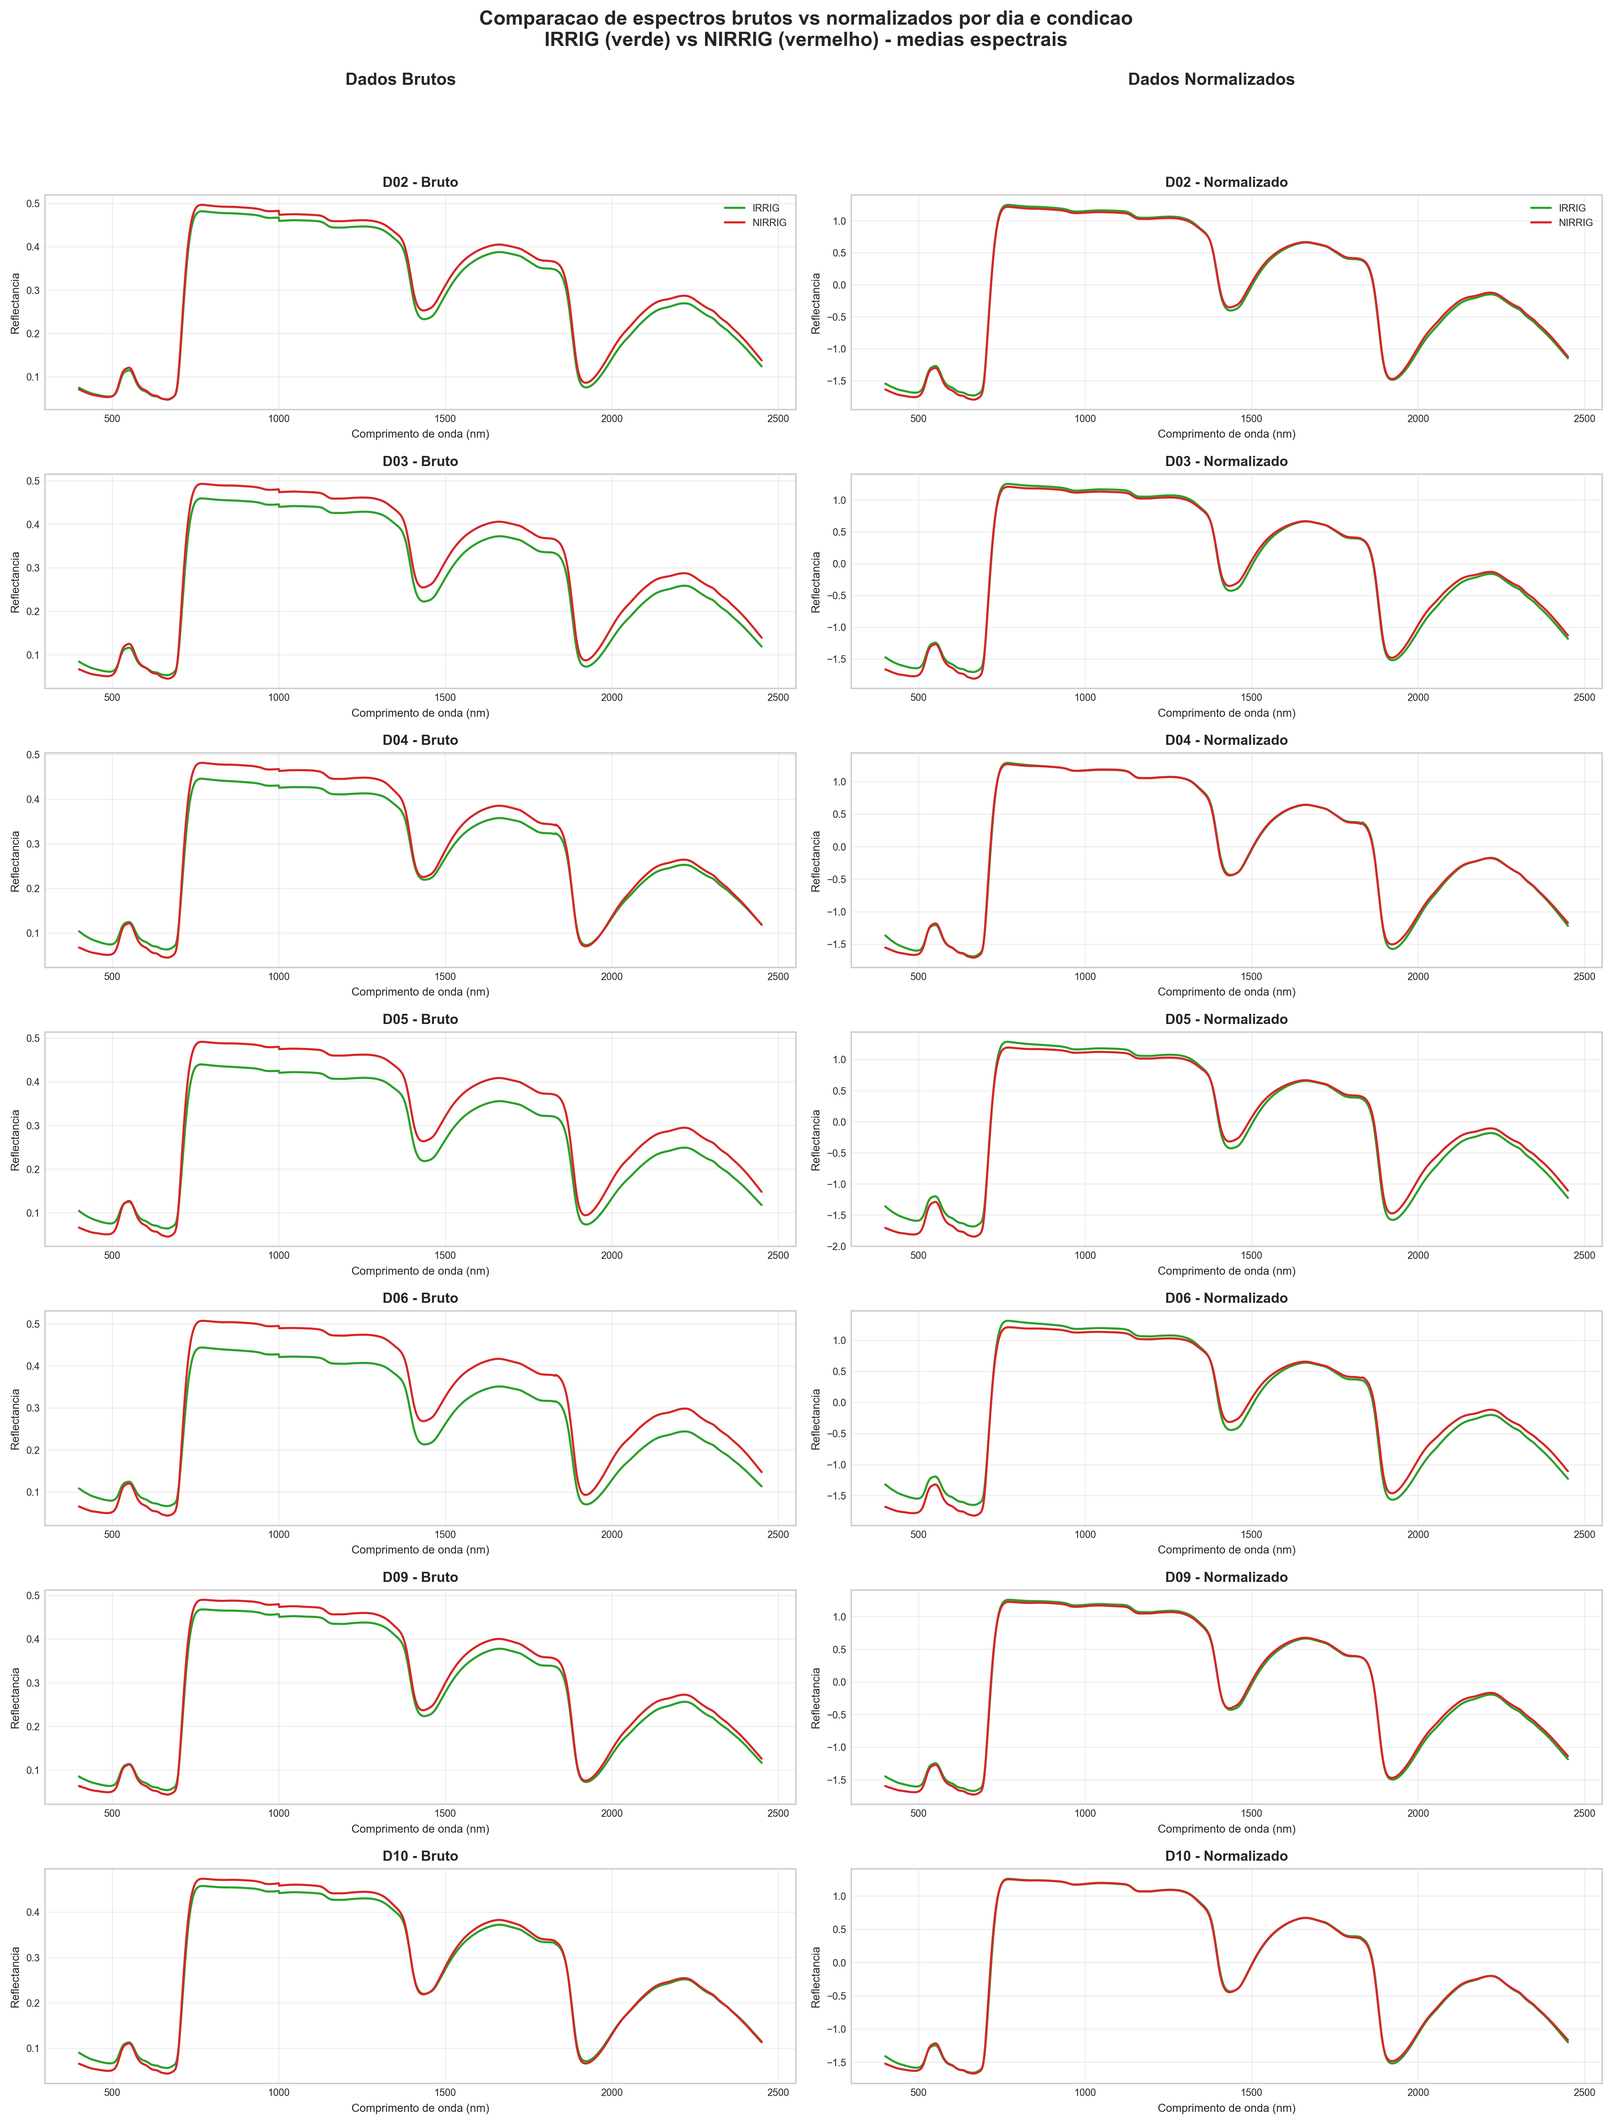
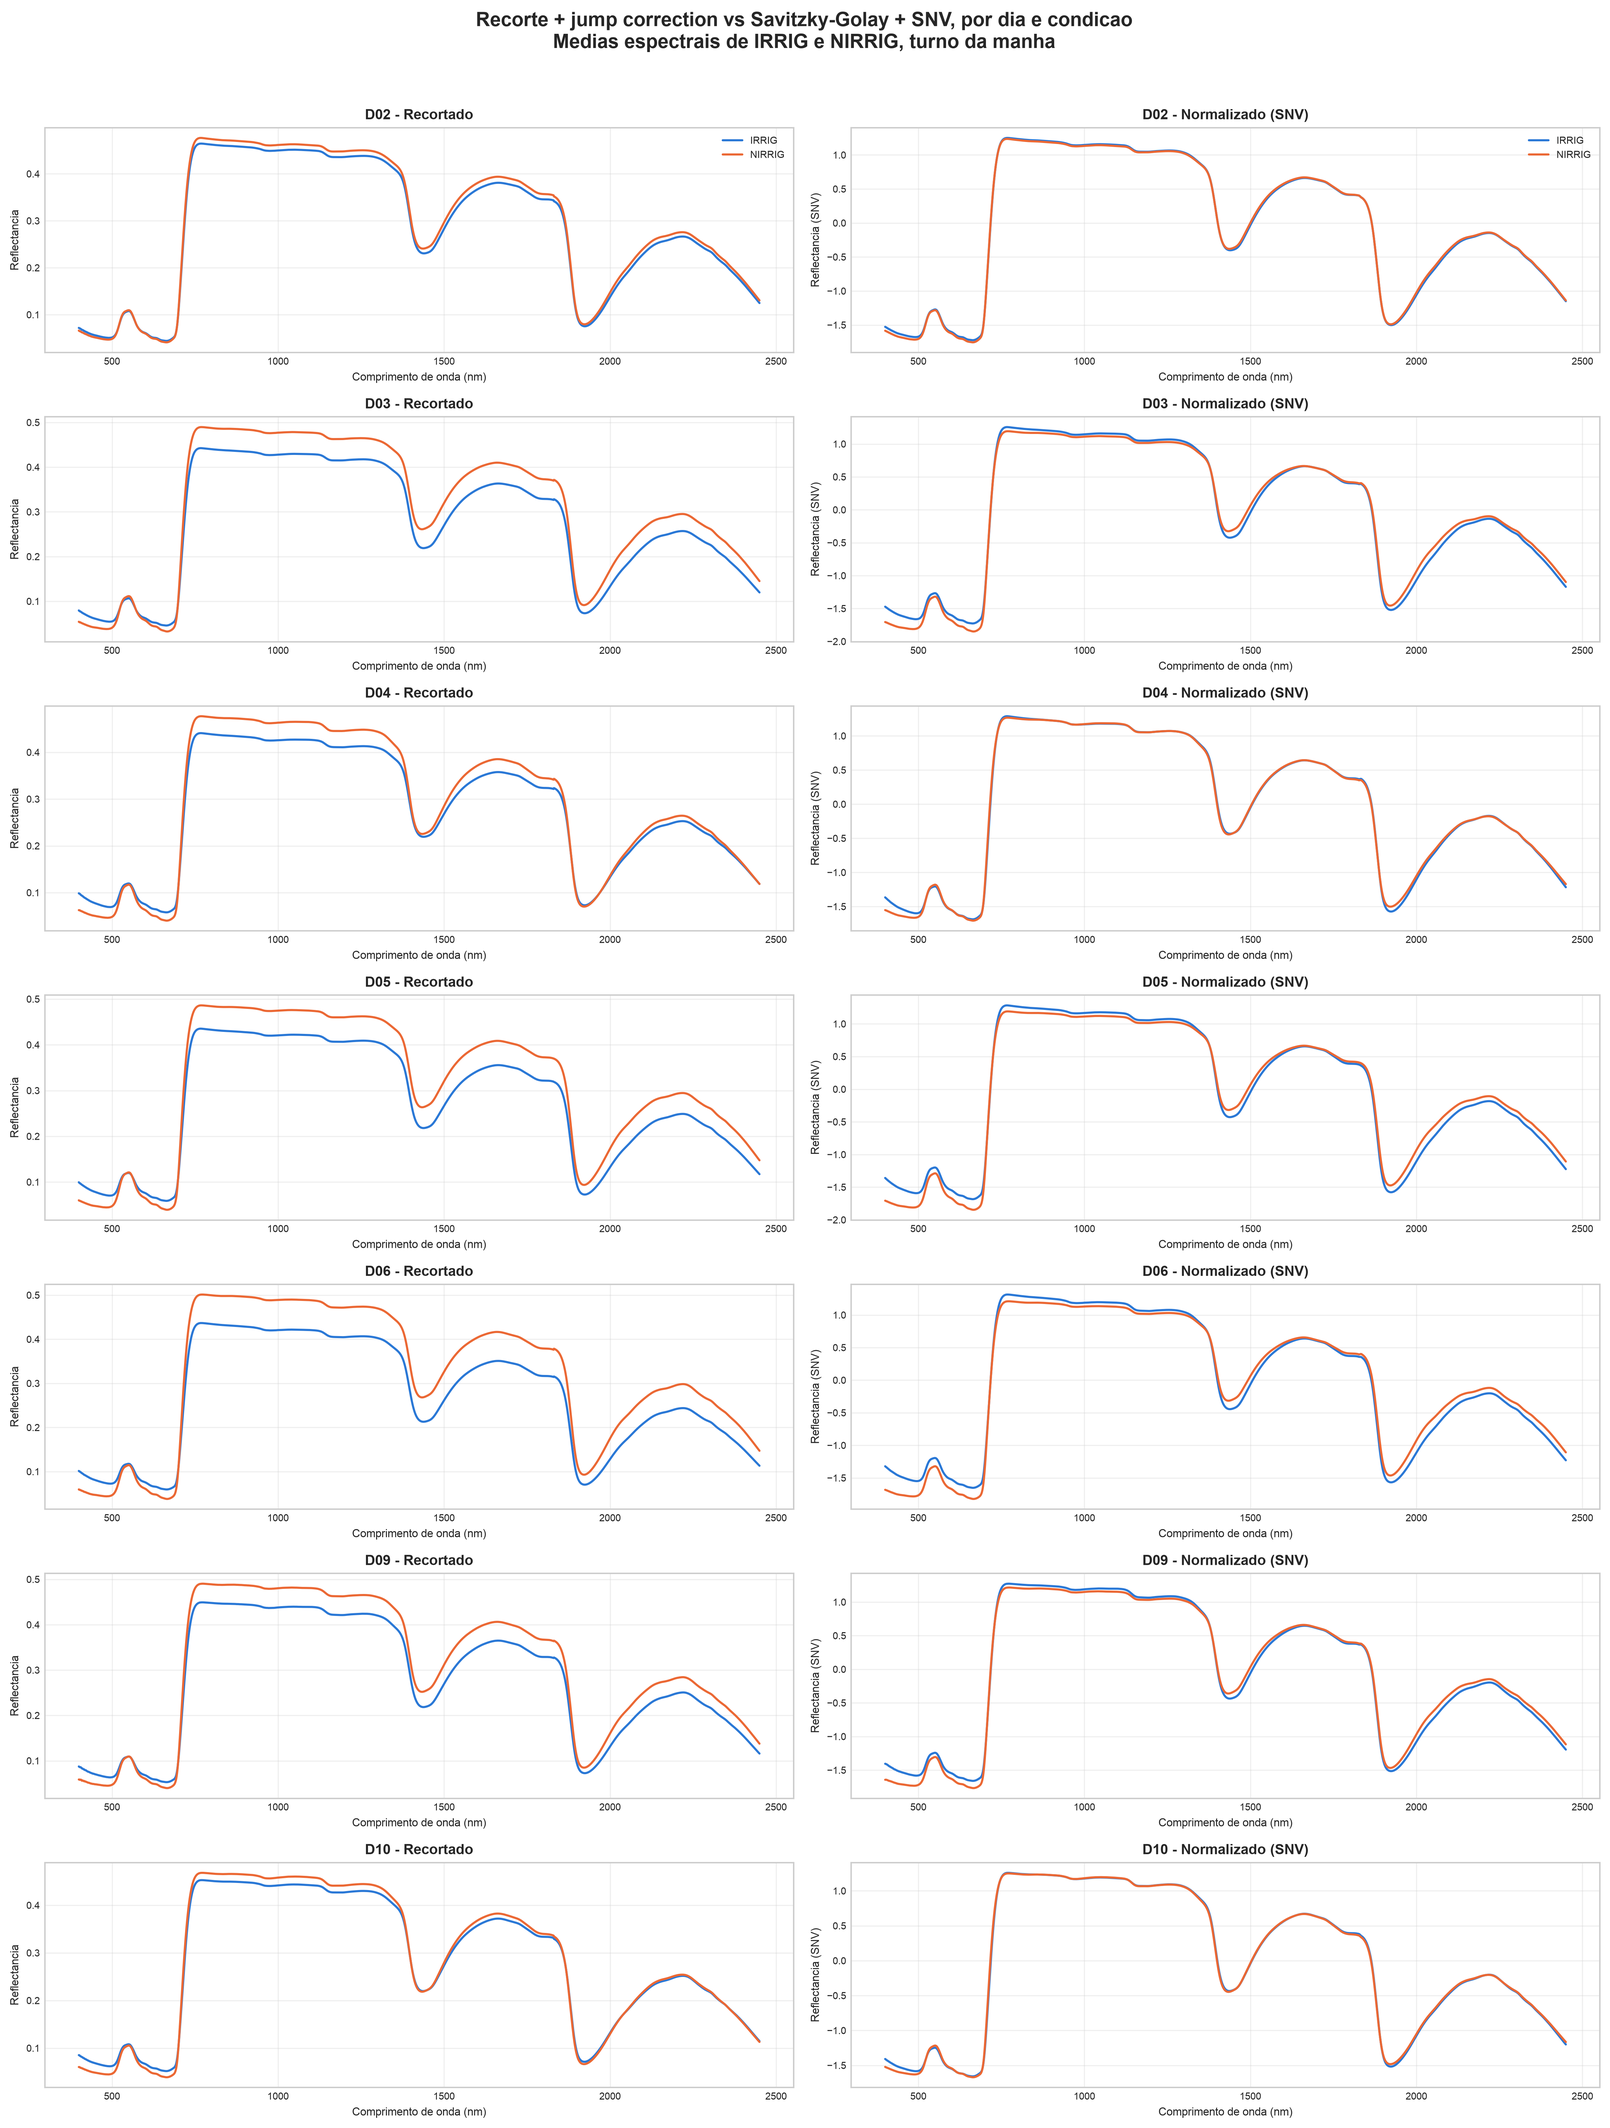
figuras: gera o comparativo de pre-processamento do pipeline em memoria
plot_preprocessamento.py lia `Unificada13052026_normalizado.csv`, um CSV
intermediario que nao esta versionado -- a figura so podia ser gerada de um
arquivo local. Agora usa `carregar_estagios`, o mesmo pipeline dos modulos de
analise, e compara recortado vs Savitzky-Golay + SNV.

Troca o par verde/vermelho por azul/laranja, validado contra deuteranopia,
protanopia e tritanopia.

Nos paineis de normalidade, o n tipico de cada agrupamento passa a ser lido de
normalidade_resumo.csv em vez de ficar fixado no codigo, e os titulos anotam o
recorte pelo turno da manha.

diff --git a/preprocessamento_espectral/plot_preprocessamento.py b/preprocessamento_espectral/plot_preprocessamento.py
@@ -1,10 +1,17 @@
 #!/usr/bin/env python3
-"""Painel comparativo de espectros brutos vs normalizados por dia e condicao.
+"""Painel comparativo de espectros recortados vs normalizados por dia e condicao.
 
 Gera uma unica figura PNG com grid 7x2:
 - 7 linhas: dias de coleta (D02 a D10)
-- 2 colunas: bruto (esquerda) vs normalizado (direita)
-- Cada subplot: medias espectrais de IRRIG (azul) e NIRRIG (vermelho)
+- 2 colunas: recortado (esquerda) vs normalizado (direita)
+- Cada subplot: medias espectrais de IRRIG e NIRRIG
+
+Os dois estagios saem de `carregar_estagios`, o mesmo pipeline em memoria que
+todos os modulos de analise usam. A versao anterior lia um CSV intermediario
+(`Unificada13052026_normalizado.csv`) que nao existe no repositorio, entao a
+figura so podia ser gerada a partir de um arquivo local nao versionado.
+
+Apenas o turno da manha entra, como no resto do projeto.
 
 Uso:
     python plot_preprocessamento.py
@@ -12,6 +19,7 @@ Uso:
 
 from __future__ import annotations
 
+import sys
 from pathlib import Path
 
 import numpy as np
@@ -23,72 +31,32 @@ except ImportError:
     raise SystemExit("matplotlib nao esta instalado. Instale com: pip install matplotlib")
 
 ROOT = Path(__file__).resolve().parent
+sys.path.insert(0, str(ROOT.parent / "testeDeNormalidade"))
 
-DATASET_DIR = ROOT.parent / "dataset"
-BRUTO_CSV = DATASET_DIR / "Unificada13052026_Limpa.csv"
-NORMALIZADO_CSV = DATASET_DIR / "Unificada13052026_normalizado.csv"
+from shapiro_normalidade import carregar_estagios  # noqa: E402
 
 SAIDA = ROOT / "preprocessamento_comparativo.png"
 
-LIMITE_INF = 400
-LIMITE_SUP = 2450
+TURNO = "manha"
 
-COR_IRRIG = "#2ca02c"
-COR_NIRRIG = "#d62728"
-
-
-def carregar_dados() -> tuple[pd.DataFrame, pd.DataFrame, np.ndarray]:
-    """Carrega datasets bruto e normalizado, aplica recorte espectral."""
-    print("Carregando dados brutos...")
-    df_bruto = pd.read_csv(BRUTO_CSV, sep=";", decimal=",")
-    df_bruto.columns = [c.strip() for c in df_bruto.columns]
-    
-    print("Carregando dados normalizados...")
-    df_norm = pd.read_csv(NORMALIZADO_CSV, sep=";", decimal=",")
-    df_norm.columns = [c.strip() for c in df_norm.columns]
-    
-    bandas_bruto = sorted(int(c) for c in df_bruto.columns if c.isdigit())
-    bandas_norm = sorted(int(c) for c in df_norm.columns if c.isdigit())
-    
-    mask_bruto = [(b >= LIMITE_INF and b <= LIMITE_SUP) for b in bandas_bruto]
-    mask_norm = [(b >= LIMITE_INF and b <= LIMITE_SUP) for b in bandas_norm]
-    
-    bandas_validas_bruto = [b for b, m in zip(bandas_bruto, mask_bruto) if m]
-    bandas_validas_norm = [b for b, m in zip(bandas_norm, mask_norm) if m]
-    
-    w_bruto = np.array(bandas_validas_bruto, dtype=float)
-    w_norm = np.array(bandas_validas_norm, dtype=float)
-    
-    print(f"  Bruto: {len(df_bruto)} amostras, {len(w_bruto)} bandas ({w_bruto.min():.0f}-{w_bruto.max():.0f} nm)")
-    print(f"  Normalizado: {len(df_norm)} amostras, {len(w_norm)} bandas ({w_norm.min():.0f}-{w_norm.max():.0f} nm)")
-    
-    return df_bruto, df_norm, w_bruto, w_norm
-
-
-def extrair_dia(data_coleta: str) -> str:
-    """Extrai o dia (D02, D03, etc) da string de data_coleta."""
-    import re
-    match = re.match(r"^(D\d+)", str(data_coleta))
-    return match.group(1) if match else str(data_coleta)
+# Par validado contra deuteranopia, protanopia e tritanopia (dE 33.6 em visao
+# normal, 26.5 no pior caso de CVD). Substitui o verde/vermelho anterior, que
+# e exatamente o par que daltonismo vermelho-verde nao distingue.
+COR_IRRIG = "#2a78d6"
+COR_NIRRIG = "#eb6834"
 
 
 def calcular_medias_por_dia_condicao(
-    df: pd.DataFrame,
-    band_cols: list[str],
+    meta: pd.DataFrame,
+    espectro: np.ndarray,
 ) -> dict[tuple[str, str], np.ndarray]:
     """Calcula media espectral para cada combinacao (dia, condicao)."""
-    df = df.copy()
-    df["dia"] = df["data_coleta"].apply(extrair_dia)
-    
-    bandas = df[band_cols].apply(pd.to_numeric, errors="coerce")
-    
     medias = {}
-    for dia in sorted(df["dia"].unique()):
+    for dia in sorted(meta["dia"].unique()):
         for condicao in ["IRRIG", "NIRRIG"]:
-            mask = (df["dia"] == dia) & (df["condicao"] == condicao)
+            mask = ((meta["dia"] == dia) & (meta["condicao"] == condicao)).to_numpy()
             if mask.any():
-                medias[(dia, condicao)] = bandas.loc[mask].mean().to_numpy()
-    
+                medias[(dia, condicao)] = espectro[mask].mean(axis=0)
     return medias
 
 
@@ -99,16 +67,17 @@ def plot_subplot(
     dia: str,
     titulo: str,
     mostrar_legenda: bool = True,
+    unidade: str = "Reflectancia",
 ) -> None:
     """Plota um subplot com IRRIG e NIRRIG."""
     if (dia, "IRRIG") in medias:
         ax.plot(w, medias[(dia, "IRRIG")], color=COR_IRRIG, linewidth=1.5, label="IRRIG")
     if (dia, "NIRRIG") in medias:
         ax.plot(w, medias[(dia, "NIRRIG")], color=COR_NIRRIG, linewidth=1.5, label="NIRRIG")
-    
+
     ax.set_title(titulo, fontsize=10, fontweight="bold")
     ax.set_xlabel("Comprimento de onda (nm)", fontsize=8)
-    ax.set_ylabel("Reflectancia", fontsize=8)
+    ax.set_ylabel(unidade, fontsize=8)
     ax.grid(True, alpha=0.3)
     ax.tick_params(labelsize=7)
     
@@ -117,56 +86,51 @@ def plot_subplot(
 
 
 def gerar_painel(
-    df_bruto: pd.DataFrame,
-    df_norm: pd.DataFrame,
-    w_bruto: np.ndarray,
-    w_norm: np.ndarray,
+    meta: pd.DataFrame,
+    estagios: dict[str, np.ndarray],
+    w: np.ndarray,
 ) -> None:
     """Gera o painel comparativo completo."""
-    bandas_bruto_str = [str(int(b)) for b in w_bruto]
-    bandas_norm_str = [str(int(b)) for b in w_norm]
-    
     print("\nCalculando medias por dia e condicao...")
-    medias_bruto = calcular_medias_por_dia_condicao(df_bruto, bandas_bruto_str)
-    medias_norm = calcular_medias_por_dia_condicao(df_norm, bandas_norm_str)
-    
-    dias = sorted(set(d for d, c in medias_bruto.keys()))
+    medias_recorte = calcular_medias_por_dia_condicao(meta, estagios["recortado"])
+    medias_norm = calcular_medias_por_dia_condicao(meta, estagios["normalizado"])
+
+    dias = sorted(set(d for d, c in medias_recorte.keys()))
     print(f"  Dias encontrados: {', '.join(dias)}")
-    
+
     plt.style.use("seaborn-v0_8-whitegrid")
     fig, axes = plt.subplots(len(dias), 2, figsize=(16, 21))
-    
+
     print(f"\nGerando {len(dias) * 2} subplots...")
     for i, dia in enumerate(dias):
-        ax_bruto = axes[i, 0]
-        ax_norm = axes[i, 1]
-        
-        plot_subplot(ax_bruto, w_bruto, medias_bruto, dia, f"{dia} - Bruto", mostrar_legenda=(i == 0))
-        plot_subplot(ax_norm, w_norm, medias_norm, dia, f"{dia} - Normalizado", mostrar_legenda=(i == 0))
-    
-    fig.text(0.25, 0.96, "Dados Brutos", ha="center", fontsize=12, fontweight="bold")
-    fig.text(0.75, 0.96, "Dados Normalizados", ha="center", fontsize=12, fontweight="bold")
-    
+        plot_subplot(axes[i, 0], w, medias_recorte, dia,
+                     f"{dia} - Recortado", mostrar_legenda=(i == 0))
+        plot_subplot(axes[i, 1], w, medias_norm, dia,
+                     f"{dia} - Normalizado (SNV)", mostrar_legenda=(i == 0),
+                     unidade="Reflectancia (SNV)")
+
     fig.suptitle(
-        "Comparacao de espectros brutos vs normalizados por dia e condicao\n"
-        "IRRIG (verde) vs NIRRIG (vermelho) - medias espectrais",
+        "Recorte + jump correction vs Savitzky-Golay + SNV, por dia e condicao\n"
+        "Medias espectrais de IRRIG e NIRRIG, turno da manha",
         fontsize=14,
         fontweight="bold",
-        y=0.995,
+        y=0.997,
     )
-    
-    plt.tight_layout(rect=[0, 0, 1, 0.95])
+
+    plt.tight_layout(rect=[0, 0, 1, 0.985])
     plt.savefig(SAIDA, dpi=300, bbox_inches="tight")
     print(f"\nPainel salvo em: {SAIDA}")
-    print(f"  Resolucao: 300 DPI")
-    print(f"  Tamanho: 16x21 pol")
-    print(f"  Layout: {len(dias)} linhas (dias) x 2 colunas (bruto vs normalizado)")
+    print("  Resolucao: 300 DPI")
+    print("  Tamanho: 16x21 pol")
+    print(f"  Layout: {len(dias)} linhas (dias) x 2 colunas (recortado vs normalizado)")
 
 
 def main() -> None:
     print("Gerando painel comparativo de preprocessamento...\n")
-    df_bruto, df_norm, w_bruto, w_norm = carregar_dados()
-    gerar_painel(df_bruto, df_norm, w_bruto, w_norm)
+    meta, estagios, w = carregar_estagios(turno=TURNO)
+    print(f"  {len(meta)} amostras do turno '{TURNO}', {len(w)} bandas "
+          f"({w.min():.0f}-{w.max():.0f} nm)")
+    gerar_painel(meta, estagios, w)
     print("Concluido.")
 
 

diff --git a/testeDeNormalidade/plot_normalidade_pvalores.py b/testeDeNormalidade/plot_normalidade_pvalores.py
@@ -49,13 +49,6 @@ ROTULOS = {
     "dia": "dia",
     "genotipo_condicao_dia": "genotipo x condicao x dia",
 }
-N_TIPICO = {
-    "global": 1924,
-    "condicao": 962,
-    "genotipo": 641,
-    "dia": 277,
-    "genotipo_condicao_dia": 45,
-}
 CORES = {
     "global": "#404040",
     "genotipo": "#1b9e77",
@@ -63,6 +56,13 @@ CORES = {
     "dia": "#7570b3",
     "genotipo_condicao_dia": "#e7298a",
 }
+
+
+def carregar_n_tipico() -> dict[str, int]:
+    """n mediano por grupo em cada agrupamento (lido do resumo, nao fixado)."""
+    resumo = pd.read_csv(SAIDA_DIR / "normalidade_resumo.csv", sep=";")
+    mediana = resumo.groupby("agrupamento")["n_amostras"].median()
+    return {agr: int(round(mediana[agr])) for agr in AGRUPAMENTOS}
 
 
 def carregar_pvalores() -> dict[str, np.ndarray]:
@@ -76,7 +76,7 @@ def carregar_pvalores() -> dict[str, np.ndarray]:
     return pvals
 
 
-def plot_histograma(ax: plt.Axes, agr: str, p: np.ndarray) -> None:
+def plot_histograma(ax: plt.Axes, agr: str, p: np.ndarray, n_tipico: int) -> None:
     """Histograma de p-valores de um agrupamento com referencia uniforme."""
     ax.hist(
         p,
@@ -102,7 +102,7 @@ def plot_histograma(ax: plt.Axes, agr: str, p: np.ndarray) -> None:
 
     prop_normal = float(np.mean(p > ALPHA)) * 100
     ax.set_title(
-        f"{ROTULOS[agr]}\nn~{N_TIPICO[agr]}  |  p>0.05: {prop_normal:.0f}%",
+        f"{ROTULOS[agr]}\nn~{n_tipico}  |  p>0.05: {prop_normal:.0f}%",
         fontsize=9,
         fontweight="bold",
     )
@@ -114,7 +114,11 @@ def plot_histograma(ax: plt.Axes, agr: str, p: np.ndarray) -> None:
         ax.legend(fontsize=6.5, loc="upper right")
 
 
-def plot_ecdf(ax: plt.Axes, pvals: dict[str, np.ndarray]) -> None:
+def plot_ecdf(
+    ax: plt.Axes,
+    pvals: dict[str, np.ndarray],
+    n_tipico: dict[str, int],
+) -> None:
     """ECDF dos p-valores por nivel, com a diagonal uniforme de referencia."""
     ax.plot([0, 1], [0, 1], color="black", linestyle="--", linewidth=1.0,
             alpha=0.6, label="Uniforme (se normal)")
@@ -123,7 +127,7 @@ def plot_ecdf(ax: plt.Axes, pvals: dict[str, np.ndarray]) -> None:
         p = np.sort(pvals[agr])
         y = np.arange(1, len(p) + 1) / len(p)
         ax.plot(p, y, color=CORES[agr], linewidth=1.6, alpha=0.9,
-                label=f"{ROTULOS[agr]} (n~{N_TIPICO[agr]})")
+                label=f"{ROTULOS[agr]} (n~{n_tipico[agr]})")
 
     ax.axvline(ALPHA, color="#d62728", linestyle=":", linewidth=1.0, alpha=0.8)
     ax.set_title(
@@ -141,7 +145,7 @@ def plot_ecdf(ax: plt.Axes, pvals: dict[str, np.ndarray]) -> None:
     ax.legend(fontsize=7, loc="lower right")
 
 
-def gerar_painel(pvals: dict[str, np.ndarray]) -> None:
+def gerar_painel(pvals: dict[str, np.ndarray], n_tipico: dict[str, int]) -> None:
     """Gera a figura: 5 histogramas + 1 ECDF."""
     plt.style.use("seaborn-v0_8-whitegrid")
 
@@ -151,13 +155,14 @@ def gerar_painel(pvals: dict[str, np.ndarray]) -> None:
     posicoes = [(0, 0), (0, 1), (0, 2), (1, 0), (1, 1)]
     for agr, (i, j) in zip(AGRUPAMENTOS, posicoes):
         ax = fig.add_subplot(gs[i, j])
-        plot_histograma(ax, agr, pvals[agr])
+        plot_histograma(ax, agr, pvals[agr], n_tipico[agr])
 
     ax_ecdf = fig.add_subplot(gs[1, 2])
-    plot_ecdf(ax_ecdf, pvals)
+    plot_ecdf(ax_ecdf, pvals, n_tipico)
 
     fig.suptitle(
-        "Distribuicao dos p-valores do Shapiro-Wilk por nivel de agrupamento\n"
+        "Distribuicao dos p-valores do Shapiro-Wilk por nivel de agrupamento "
+        "(somente turno da manha)\n"
         "Sob normalidade verdadeira seriam uniformes; o empilhamento em p~0 "
         "cresce com o n -> nao-normalidade e efeito de poder do teste",
         fontsize=13,
@@ -174,7 +179,8 @@ def gerar_painel(pvals: dict[str, np.ndarray]) -> None:
 def main() -> None:
     print("Gerando painel de p-valores do teste de normalidade...\n")
     pvals = carregar_pvalores()
-    gerar_painel(pvals)
+    n_tipico = carregar_n_tipico()
+    gerar_painel(pvals, n_tipico)
     print("Concluido.")
 
 

diff --git a/testeDeNormalidade/plot_normalidade.py b/testeDeNormalidade/plot_normalidade.py
@@ -223,7 +223,8 @@ def gerar_painel(
 
     fig.suptitle(
         "Teste de normalidade (Shapiro-Wilk banda a banda) - "
-        "espectro pre-processado / normalizado",
+        "espectro pre-processado / normalizado\n"
+        "Somente turno da manha (unico presente nos sete dias)",
         fontsize=14,
         fontweight="bold",
         y=0.98,
